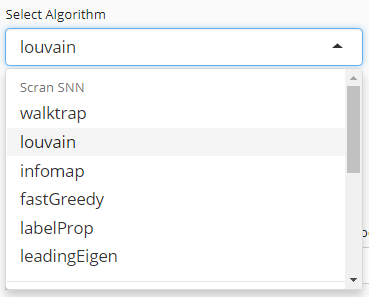
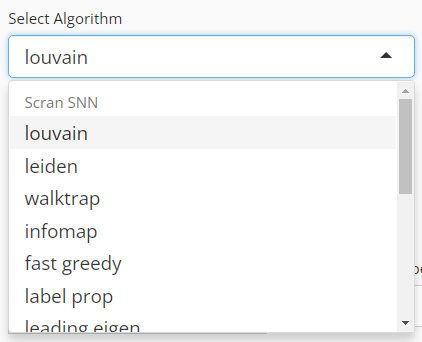
Update clustering documentation accordingly

diff --git a/docs/articles/clustering.html b/docs/articles/clustering.html
@@ -240,9 +240,9 @@
 <div class="section level2">
 <h2 id="introduction">Introduction<a class="anchor" aria-label="anchor" href="#introduction"></a>
 </h2>
-<p>SCTK allows users to do clustering on their data. The clustering methods that SCTK adopts are mainly graph based, such as an SNN graph, supported by Scran <span class="citation">[1]</span>, or a KNN graph, supported by Seurat <span class="citation">[2]</span>. Meanwhile, we also support traditional method such as K-Means <span class="citation">[3]</span>.</p>
-<p>SCTK allows different types data matrix as input. When using Scran’s SNN graph based clustering algorithms, users can specify either a expression matrix or a low-dimension representation as the input, while for Seurat’s KNN graph based algorithms and K-Means, users can only use the reduced dimensions.</p>
-<p>To view detailed instructions on how to use these methods, please select ‘Interactive Analysis’ for using clustering methods in shiny application or ‘Console Analysis’ for using these methods on R console from the tabs below: <br></p>
+<p>SCTK allows users to do clustering on their data. The clustering methods that SCTK adopts are mainly graph based algorithms, such as Louvain and Leiden, which partitions a Shared Nearest-Neighbor (SNN) graph. The graph can be constructed by Scran <span class="citation">[1]</span> or Seurat <span class="citation">[2]</span>, and the graph clustering is done by <code>igraph</code> or Seurat, respectively. Meanwhile, we also support traditional method such as K-Means <span class="citation">[3]</span>.</p>
+<p>SCTK allows different types data matrix as input. When using Scran’s SNN graph based clustering algorithms, users can specify either an expression matrix or a low-dimension representation as the input, while for Seurat’s methods and K-Means, users can only use the reduced dimensions.</p>
+<p>To view detailed instructions on how to use these methods, please select ‘Interactive Analysis’ for using clustering methods in Shiny application or ‘Console Analysis’ for using these methods in R console from the tabs below: <br></p>
 </div>
 <div class="section level2">
 <h2 id="workflow-guide">Workflow Guide<a class="anchor" aria-label="anchor" href="#workflow-guide"></a>
@@ -256,10 +256,10 @@
 <p><strong>Entry of The Panel</strong></p>
 <p>From anywhere of the UI, the panel for clustering can be accessed from the top navigation panel at the circled tab shown below.</p>
 <p><img src="ui_screenshots/clustering/clst_ui_entry.png" alt="Entry"><br></p>
-<p>The UI is includes two panels. The top one is for setting the parameters and run the clustering, while the bottom one is for visualizing the results.</p>
+<p>The UI includes two panels. The top one is for setting the parameters and run the clustering, while the bottom one is for visualizing the results.</p>
 <p><strong>Run Clustering</strong></p>
 <p><strong>1. Choose An Algorithm</strong></p>
-<p><img src="ui_screenshots/clustering/clst_ui_algo.png" style="border: 1px solid rgba(0,0,0,0.2)"></p>
+<p><img src="ui_screenshots/clustering/clst_ui_algo.png" alt="Algo"><br></p>
 <p>User will choose an algorithm to run the clustering at the very first step. The slide-down option list is constructed in a grouped style. Each group lists all the algorithm that a dependency (shown with grey text) supports. By selecting an algorithm that belongs to different groups, the parameter settings will change.</p>
 <p><strong>2. Parameter Settings</strong></p>
 <p>Method specific parameter settings can be viewed below:</p>
@@ -268,12 +268,23 @@ div.offset { background-color:inherit ; border-radius: 5px; margin-left: 15px;}
 </style>
 <div class="offset">
 <details><summary><b>Scran SNNs</b></summary><p><img src="ui_screenshots/clustering/clst_ui_scran.png" alt="scran"><br></p>
-<p>When the selected algorithm belongs to “Scran SNN” group, the parameter settings will look like the figure above. For the choices in the algorithm list, please refer to <code><a href="https://rdrr.io/pkg/igraph/man/cluster_walktrap.html" class="external-link">igraph::cluster_walktrap()</a></code>, <code><a href="https://rdrr.io/pkg/igraph/man/cluster_louvain.html" class="external-link">igraph::cluster_louvain()</a></code>, <code><a href="https://rdrr.io/pkg/igraph/man/cluster_infomap.html" class="external-link">igraph::cluster_infomap()</a></code>, <code><a href="https://rdrr.io/pkg/igraph/man/cluster_fast_greedy.html" class="external-link">igraph::cluster_fast_greedy()</a></code>, <code><a href="https://rdrr.io/pkg/igraph/man/cluster_label_prop.html" class="external-link">igraph::cluster_label_prop()</a></code>, and <code><a href="https://rdrr.io/pkg/igraph/man/cluster_leading_eigen.html" class="external-link">igraph::cluster_leading_eigen()</a></code>.</p>
+<p>When the selected algorithm belongs to “Scran SNN” group, the parameter settings will look like the figure above. For the choices in the algorithm list, please refer to <code><a href="https://rdrr.io/pkg/igraph/man/cluster_louvain.html" class="external-link">igraph::cluster_louvain()</a></code>, <code><a href="https://rdrr.io/pkg/igraph/man/cluster_leiden.html" class="external-link">igraph::cluster_leiden()</a></code>, <code><a href="https://rdrr.io/pkg/igraph/man/cluster_walktrap.html" class="external-link">igraph::cluster_walktrap()</a></code>, <code><a href="https://rdrr.io/pkg/igraph/man/cluster_infomap.html" class="external-link">igraph::cluster_infomap()</a></code>, <code><a href="https://rdrr.io/pkg/igraph/man/cluster_fast_greedy.html" class="external-link">igraph::cluster_fast_greedy()</a></code>, <code><a href="https://rdrr.io/pkg/igraph/man/cluster_label_prop.html" class="external-link">igraph::cluster_label_prop()</a></code>, and <code><a href="https://rdrr.io/pkg/igraph/man/cluster_leading_eigen.html" class="external-link">igraph::cluster_leading_eigen()</a></code>.</p>
 <ul>
 <li>Data matrix selection - selection input <strong>“Select Input Matrix”</strong>. Scran SNN method allows various types of data matrices. Either a full-sized or a subsetted expression matrix, technically called <code>assay</code> or <code>altExp</code>, respectively, or a reduced dimension, technically <code>reducedDim</code>, is allowed.</li>
-<li>Resolution setting - numeric input <strong>“K value”</strong>. <code>K</code> is an integer scalar specifying the number of nearest neighbors to consider during graph construction. Considering more neighbors results in larger groups. (See parameter <code>k</code> of <code><a href="https://rdrr.io/pkg/scran/man/buildSNNGraph.html" class="external-link">scran::buildSNNGraph()</a></code>)</li>
-<li>Algorithm detail setting - selection input <strong>“Edge Weight Type”</strong>. Users can specify the type of weighting scheme to use for shared neighbors. (See parameter <code>type</code> of <code><a href="https://rdrr.io/pkg/scran/man/buildSNNGraph.html" class="external-link">scran::buildSNNGraph()</a></code>)</li>
-<li>Component number setting (only used when the chosen data matrix is an <code>assay</code> or <code>altExp</code>) - numeric input <strong>“Number of Components”</strong>. When an <code>assay</code> or <code>altExp</code> is chosen, the algorithm will perform a PCA on the matrix and obtain the top principal components (PCs) for downstream use. Thus users will specify the number of PCs here.</li>
+<li>Resolution related parameters:
+<ul>
+<li>Numeric input <strong>“K value”</strong>. <code>K</code> is an integer scalar specifying the number of nearest neighbors to consider during graph construction. Considering more neighbors results in larger groups. (See parameter <code>k</code> of <code><a href="https://rdrr.io/pkg/scran/man/buildSNNGraph.html" class="external-link">scran::buildSNNGraph()</a></code>)</li>
+<li>Numeric input <strong>“Resolution”</strong>, only seen when choosing “leiden” algorithm. Higher resolutions lead to more smaller communities, while lower resolutions lead to fewer larger communities. (See parameter <code>resolution_parameter</code> of <code><a href="https://rdrr.io/pkg/igraph/man/cluster_leiden.html" class="external-link">igraph::cluster_leiden()</a></code>)</li>
+<li>Numeric input <strong>“Steps”</strong>, only seen when choosing “walktrap” algorithm. The length of the random walks to perform. Less steps lead to fewer larger communities, and take more time for computation. (See parameter <code>steps</code> of <code><a href="https://rdrr.io/pkg/igraph/man/cluster_walktrap.html" class="external-link">igraph::cluster_walktrap()</a></code>)</li>
+</ul>
+</li>
+<li>Algorithm detail setting
+<ul>
+<li>selection input <strong>“Edge Weight Type”</strong>. Users can specify the type of weighting scheme to use for shared neighbors. (See parameter <code>type</code> of <code><a href="https://rdrr.io/pkg/scran/man/buildSNNGraph.html" class="external-link">scran::buildSNNGraph()</a></code>)</li>
+<li>Selection input <strong>“Objective Function”</strong>, only seen when choosing “leiden” algorithm. The objective function, “CPM” <span class="citation">[4]</span> or “modularity” <span class="citation">[5]</span>, evaluates the partitioning of the graph, and the algorithm attempts to maximize the score.</li>
+</ul>
+</li>
+<li>Component number setting - numeric input <strong>“Number of Components”</strong>. If users specify a low-dimensional matrix as input, the method will be applied on the top components. When an <code>assay</code> or <code>altExp</code> is chosen, the algorithm will perform a PCA on the matrix and obtain the top PCs for downstream use. This number could be determined with the help of an Elbow plot in the <a href="cnsl_dimensionality_reduction.html">“Dimension Reduction”</a> section, and should be consistent with what is used for 2D embedding for better visualization.</li>
 </ul></details><details><summary><b>K-Means</b></summary><p><img src="ui_screenshots/clustering/clst_ui_kmeans.png" alt="kmeans"><br></p>
 <p>When the selected algorithm belongs to “K-Means” group, the parameter settings will look like the figure above.</p>
 <ul>
@@ -302,7 +313,7 @@ div.offset { background-color:inherit ; border-radius: 5px; margin-left: 15px;}
 </div>
 
 <div id="console" class="tabcontent">
-<p>The clustering methods mentioned in the Introduction can be easily applied to any preprocessed SCE object. Meanwhile, there are other types of clustering methods supported by SCTK, but usually dependent to a curated workflow, such as <a href="https://rdrr.io/bioc/celda/" class="external-link"><code>celda</code></a>. Here we present the usage of the three functions only.</p>
+<p>The clustering methods mentioned in the Introduction can be easily applied to any preprocessed SCE object. Meanwhile, there are other types of clustering methods supported by SCTK, but usually dependent to a curated workflow, such as the <a href="celda_curated_workflow.html">Celda Curated Workflow</a>. Here we present the usage of the three functions only.</p>
 <p><strong>Basic Parameters</strong></p>
 <p>For each of the three functions, the common things are:</p>
 <ul>
@@ -314,46 +325,54 @@ div.offset { background-color:inherit ; border-radius: 5px; margin-left: 15px;}
 </ul>
 <p>As for another essential parameter, the data matrix used for running the algorithm is a must. Here, users should notice that:</p>
 <ul>
+<li>For <code><a href="../reference/runScranSNN.html">runScranSNN()</a></code>, either a feature expression matrix or a dimension reduction is acceptable. Users need to use:
+<ul>
+<li>
+<code>useAssay</code> for a full-sized expression data (<code>assay</code>)</li>
+<li>
+<code>useAltExp</code> and <code>altExpAssay</code> for a subsetted expression data (<code>altExp</code>)</li>
+<li>
+<code>useReducedDim</code> for a dimension reduction. (<code>reducedDim</code>)</li>
+<li>
+<code>useAltExp</code> and <code>altExpRedDim</code> for a reduced dimension stored in the <code>altExp</code> object.</li>
+</ul>
+</li>
 <li>For <code><a href="../reference/runKMeans.html">runKMeans()</a></code>, only a dimension reduction is acceptable. Users need to use <code>useReducedDim</code> to pass the argument.</li>
-<li>For <code><a href="../reference/runScranSNN.html">runScranSNN()</a></code>, either a feature expression matrix or a dimension reduction is acceptable. Users need to use <code>useAssay</code> for a full-sized expression data (<code>assay</code>), <code>useAltExp</code> and <code>altExpAssay</code> for a subsetted expression data (<code>altExp</code>), or <code>useReducedDim</code> for a dimension reduction.</li>
 <li>For <code><a href="../reference/runSeuratFindClusters.html">runSeuratFindClusters()</a></code>, it is included within the Seurat Curated Workflow, yet usable as an independent function. However, it will be complicated to use this way. It is recommended to invoke the Seurat clustering functionality in the UI since it is automated there. We will still present the complicated workflow later.</li>
 </ul>
 <p>Other parameters are method specific, please refer to the function manual pages for the detail.</p>
-<details><summary><b>Example</b></summary><p>To demonstrate simple and clear examples, here we use the “PBMC-3k” dataset from “10X” which can be easily imported with SCTK functions.</p>
-<div class="sourceCode" id="cb1"><pre class="downlit sourceCode r">
-<code class="sourceCode R"><span class="kw"><a href="https://rdrr.io/r/base/library.html" class="external-link">library</a></span><span class="op">(</span><span class="va"><a href="https://www.camplab.net/sctk/" class="external-link">singleCellTK</a></span><span class="op">)</span>
-<span class="va">sce</span> <span class="op">&lt;-</span> <span class="fu"><a href="../reference/importExampleData.html">importExampleData</a></span><span class="op">(</span><span class="st">"pbmc3k"</span><span class="op">)</span></code></pre></div>
-<p>The preprocessing only includes necessary steps before getting cluster labels (i.e. QC and filtering are excluded).</p>
+<p><strong>Example</strong></p>
+<p>To demonstrate simple and clear examples, here we use the “PBMC-3k” dataset from “10X” which can be easily imported with SCTK functions. The preprocessing only includes necessary steps before getting cluster labels (i.e. QC and filtering are excluded).</p>
 <div class="offset">
-<details><summary><b>Preprocessing</b></summary><div class="sourceCode" id="cb2"><pre class="downlit sourceCode r">
-<code class="sourceCode R"><span class="va">sce</span> <span class="op">&lt;-</span> <span class="fu"><a href="../reference/scaterlogNormCounts.html">scaterlogNormCounts</a></span><span class="op">(</span><span class="va">sce</span>, <span class="st">"logcounts"</span><span class="op">)</span>
-<span class="co"># Go through the Seurat curated workflow to get basic scaled assay and dimension reduction</span>
+<details><summary><b>Preprocessing</b></summary><div class="sourceCode" id="cb1"><pre class="downlit sourceCode r">
+<code class="sourceCode R"><span class="kw"><a href="https://rdrr.io/r/base/library.html" class="external-link">library</a></span><span class="op">(</span><span class="va"><a href="https://www.camplab.net/sctk/" class="external-link">singleCellTK</a></span><span class="op">)</span>
+<span class="va">sce</span> <span class="op">&lt;-</span> <span class="fu"><a href="../reference/importExampleData.html">importExampleData</a></span><span class="op">(</span><span class="st">"pbmc3k"</span><span class="op">)</span>
+<span class="co"># Go through the Seurat curated workflow to get the dimension reduction</span>
 <span class="va">sce</span> <span class="op">&lt;-</span> <span class="fu"><a href="../reference/runSeuratNormalizeData.html">runSeuratNormalizeData</a></span><span class="op">(</span>inSCE <span class="op">=</span> <span class="va">sce</span>, useAssay <span class="op">=</span> <span class="st">"counts"</span><span class="op">)</span>
 <span class="va">sce</span> <span class="op">&lt;-</span> <span class="fu"><a href="../reference/runSeuratFindHVG.html">runSeuratFindHVG</a></span><span class="op">(</span>inSCE <span class="op">=</span> <span class="va">sce</span>, useAssay <span class="op">=</span> <span class="st">"seuratNormData"</span><span class="op">)</span>
 <span class="va">sce</span> <span class="op">&lt;-</span> <span class="fu"><a href="../reference/runSeuratScaleData.html">runSeuratScaleData</a></span><span class="op">(</span>inSCE <span class="op">=</span> <span class="va">sce</span>, useAssay <span class="op">=</span> <span class="st">"seuratNormData"</span><span class="op">)</span>
 <span class="va">sce</span> <span class="op">&lt;-</span> <span class="fu"><a href="../reference/runSeuratPCA.html">runSeuratPCA</a></span><span class="op">(</span>inSCE <span class="op">=</span> <span class="va">sce</span>, useAssay <span class="op">=</span> <span class="st">"seuratScaledData"</span><span class="op">)</span>
 <span class="co"># Optional visualization</span>
-<span class="va">sce</span> <span class="op">&lt;-</span> <span class="fu"><a href="../reference/runSeuratUMAP.html">runSeuratUMAP</a></span><span class="op">(</span><span class="va">pbmc3k</span><span class="op">)</span>
-<span class="fu"><a href="../reference/plotSCEDimReduceColData.html">plotSCEDimReduceColData</a></span><span class="op">(</span>inSCE <span class="op">=</span> <span class="va">sce</span>,  colorBy <span class="op">=</span> <span class="st">"Sample"</span>, reducedDimName <span class="op">=</span> <span class="st">"seuratUMAP"</span><span class="op">)</span></code></pre></div>
+<span class="va">sce</span> <span class="op">&lt;-</span> <span class="fu"><a href="../reference/runSeuratUMAP.html">runSeuratUMAP</a></span><span class="op">(</span><span class="va">sce</span><span class="op">)</span>
+<span class="fu"><a href="../reference/plotSCEDimReduceColData.html">plotSCEDimReduceColData</a></span><span class="op">(</span>inSCE <span class="op">=</span> <span class="va">sce</span>, colorBy <span class="op">=</span> <span class="st">"Sample"</span>, reducedDimName <span class="op">=</span> <span class="st">"seuratUMAP"</span><span class="op">)</span></code></pre></div>
 </details><details><summary><b>Example with Scran SNN</b></summary><details><summary><b>Method specific parameters</b></summary><ul>
 <li>
 <code>k</code>, the number of nearest neighbors used to construct the graph. Smaller value indicates higher resolution and larger number of clusters.</li>
 <li>
 <code>nComp</code>, the number of components to use when <code>useAssay</code> or <code>useAltExp</code> is specified. WON’T work with <code>useReducedDim</code>.</li>
-<li>For <code>weightType</code> and <code>algorithm</code>, users should choose from a given list of options, which can be found with <code><a href="../reference/runScranSNN.html">?runScranSNN</a></code>. For the introduction of those options, please refer to <code><a href="https://rdrr.io/pkg/scran/man/buildSNNGraph.html" class="external-link">scran::buildSNNGraph()</a></code> and <a href="https://rdrr.io/cran/igraph/" class="external-link"><code>igraph</code></a>.</li>
-</ul></details><div class="sourceCode" id="cb3"><pre class="downlit sourceCode r">
+<li>For <code>weightType</code> and <code>algorithm</code>, users should choose from a given list of options, which can be found with <code><a href="../reference/runScranSNN.html">?runScranSNN</a></code>. For the introduction of those options, please refer to <code><a href="https://rdrr.io/pkg/scran/man/buildSNNGraph.html" class="external-link">scran::buildSNNGraph()</a></code> and <a href="https://rdrr.io/cran/igraph/" class="external-link">igraph</a>.</li>
+<li>Different algorithms, supported by <a href="https://rdrr.io/cran/igraph/" class="external-link">igraph</a>, might allows different parameters, such as <code>objective_function</code> and <code>resolution_parameter</code> for Leiden <span class="citation">[6]</span>, <code>steps</code> for Walktrap <span class="citation">[7]</span>. Please also refer to function reference for detail.</li>
+</ul></details><div class="sourceCode" id="cb2"><pre class="downlit sourceCode r">
 <code class="sourceCode R"><span class="co"># Directly use an assay</span>
-<span class="va">sce</span> <span class="op">&lt;-</span> <span class="fu"><a href="../reference/runScranSNN.html">runScranSNN</a></span><span class="op">(</span>inSCE <span class="op">=</span> <span class="va">sce</span>, useAssay <span class="op">=</span> <span class="st">"logcounts"</span>, k <span class="op">=</span> <span class="fl">10</span>, clusterName <span class="op">=</span> <span class="st">"scranSNN_logcounts"</span><span class="op">)</span>
-<span class="fu"><a href="../reference/plotSCEDimReduceColData.html">plotSCEDimReduceColData</a></span><span class="op">(</span>inSCE <span class="op">=</span> <span class="va">sce</span>, colorBy <span class="op">=</span> <span class="st">"scranSNN_logcounts"</span>, conditionClass <span class="op">=</span> <span class="st">"factor"</span>, reducedDimName <span class="op">=</span> <span class="st">"seuratUMAP"</span><span class="op">)</span>
+<span class="va">sce</span> <span class="op">&lt;-</span> <span class="fu"><a href="../reference/runScranSNN.html">runScranSNN</a></span><span class="op">(</span>inSCE <span class="op">=</span> <span class="va">sce</span>, useAssay <span class="op">=</span> <span class="st">"seuratNormData"</span>, clusterName <span class="op">=</span> <span class="st">"scranSNN_logcounts"</span><span class="op">)</span>
+<span class="fu"><a href="../reference/plotSCEDimReduceColData.html">plotSCEDimReduceColData</a></span><span class="op">(</span>inSCE <span class="op">=</span> <span class="va">sce</span>, colorBy <span class="op">=</span> <span class="st">"scranSNN_logcounts"</span>, reducedDimName <span class="op">=</span> <span class="st">"seuratUMAP"</span><span class="op">)</span>
 <span class="co"># Directly use a dimension reduction</span>
-<span class="va">sce</span> <span class="op">&lt;-</span> <span class="fu"><a href="../reference/runScranSNN.html">runScranSNN</a></span><span class="op">(</span>inSCE <span class="op">=</span> <span class="va">sce</span>, useReducedDim <span class="op">=</span>  <span class="st">"seuratUMAP"</span>, k <span class="op">=</span> <span class="fl">25</span>, clusterName <span class="op">=</span> <span class="st">"scranSNN_seuratUMAP"</span><span class="op">)</span>
-<span class="fu"><a href="../reference/plotSCEDimReduceColData.html">plotSCEDimReduceColData</a></span><span class="op">(</span>inSCE <span class="op">=</span> <span class="va">sce</span>, colorBy <span class="op">=</span> <span class="st">"scranSNN_seuratUMAP"</span>, conditionClass <span class="op">=</span> <span class="st">"factor"</span>, reducedDimName <span class="op">=</span> <span class="st">"seuratUMAP"</span><span class="op">)</span>
+<span class="va">sce</span> <span class="op">&lt;-</span> <span class="fu"><a href="../reference/runScranSNN.html">runScranSNN</a></span><span class="op">(</span>inSCE <span class="op">=</span> <span class="va">sce</span>, useReducedDim <span class="op">=</span>  <span class="st">"seuratPCA"</span>, clusterName <span class="op">=</span> <span class="st">"scranSNN_seuratPCA"</span><span class="op">)</span>
+<span class="fu"><a href="../reference/plotSCEDimReduceColData.html">plotSCEDimReduceColData</a></span><span class="op">(</span>inSCE <span class="op">=</span> <span class="va">sce</span>, colorBy <span class="op">=</span> <span class="st">"scranSNN_seuratPCA"</span>, reducedDimName <span class="op">=</span> <span class="st">"seuratUMAP"</span><span class="op">)</span>
 <span class="co"># Use a subset of an assay</span>
-<span class="va">hvg</span> <span class="op">&lt;-</span> <span class="fu"><a href="../reference/getTopHVG.html">getTopHVG</a></span><span class="op">(</span><span class="va">sce</span>, <span class="st">"vst"</span>, n <span class="op">=</span> <span class="fl">500</span><span class="op">)</span>
-<span class="va">ae</span> <span class="op">&lt;-</span> <span class="fu"><a href="https://rdrr.io/pkg/SingleCellExperiment/man/SingleCellExperiment.html" class="external-link">SingleCellExperiment</a></span><span class="op">(</span>assays <span class="op">=</span> <span class="fu"><a href="https://rdrr.io/r/base/list.html" class="external-link">list</a></span><span class="op">(</span>logcounts <span class="op">=</span> <span class="fu"><a href="https://rdrr.io/pkg/SingleCellExperiment/man/assays.html" class="external-link">logcounts</a></span><span class="op">(</span><span class="va">sce</span><span class="op">[</span><span class="va">hvg</span>,<span class="op">]</span><span class="op">)</span><span class="op">)</span><span class="op">)</span>
-<span class="fu"><a href="https://rdrr.io/pkg/SingleCellExperiment/man/altExps.html" class="external-link">altExp</a></span><span class="op">(</span><span class="va">sce</span>, <span class="st">"subset"</span><span class="op">)</span> <span class="op">&lt;-</span> <span class="va">ae</span>
-<span class="va">sce</span> <span class="op">&lt;-</span> <span class="fu"><a href="../reference/runScranSNN.html">runScranSNN</a></span><span class="op">(</span>inSCE <span class="op">=</span> <span class="va">sce</span>, useAltExp <span class="op">=</span> <span class="st">"subset"</span>, altExpAssay <span class="op">=</span> <span class="st">"logcounts"</span>, k <span class="op">=</span> <span class="fl">8</span>, clusterName <span class="op">=</span> <span class="st">"scranSNN_altExp"</span><span class="op">)</span>
-<span class="fu"><a href="../reference/plotSCEDimReduceColData.html">plotSCEDimReduceColData</a></span><span class="op">(</span>inSCE <span class="op">=</span> <span class="va">sce</span>, colorBy <span class="op">=</span> <span class="st">"scranSNN_altExp"</span>, conditionClass <span class="op">=</span> <span class="st">"factor"</span>, reducedDimName <span class="op">=</span> <span class="st">"seuratUMAP"</span><span class="op">)</span></code></pre></div>
+<span class="va">sce</span> <span class="op">&lt;-</span> <span class="fu"><a href="../reference/getTopHVG.html">getTopHVG</a></span><span class="op">(</span><span class="va">sce</span>, <span class="st">"vst"</span>, n <span class="op">=</span> <span class="fl">1000</span>, altExp <span class="op">=</span> <span class="st">"hvg"</span><span class="op">)</span>
+<span class="va">sce</span> <span class="op">&lt;-</span> <span class="fu"><a href="../reference/runScranSNN.html">runScranSNN</a></span><span class="op">(</span>inSCE <span class="op">=</span> <span class="va">sce</span>, useAltExp <span class="op">=</span> <span class="st">"hvg"</span>, altExpAssay <span class="op">=</span> <span class="st">"seuratNormData"</span>,  clusterName <span class="op">=</span> <span class="st">"scranSNN_altExp"</span><span class="op">)</span>
+<span class="fu"><a href="../reference/plotSCEDimReduceColData.html">plotSCEDimReduceColData</a></span><span class="op">(</span>inSCE <span class="op">=</span> <span class="va">sce</span>, colorBy <span class="op">=</span> <span class="st">"scranSNN_altExp"</span>, reducedDimName <span class="op">=</span> <span class="st">"seuratUMAP"</span><span class="op">)</span></code></pre></div>
 </details><details><summary><b>Example with K-Means</b></summary><details><summary><b>Method specific parameters</b></summary><ul>
 <li>
 <code>nCenters</code>, the number of final clusters. This is required.</li>
@@ -364,32 +383,28 @@ div.offset { background-color:inherit ; border-radius: 5px; margin-left: 15px;}
 <li>
 <code>seed</code>, The seed for the random number generator.</li>
 <li>For <code>algorithm</code>, users should choose from a given list of options, which can be found with <code><a href="../reference/runKMeans.html">?runKMeans</a></code>. For the introduction of those options, please refer to <code><a href="https://rdrr.io/r/stats/kmeans.html" class="external-link">?stats::kmeans</a></code>.</li>
-</ul></details><div class="sourceCode" id="cb4"><pre class="downlit sourceCode r">
-<code class="sourceCode R"><span class="va">sce</span> <span class="op">&lt;-</span> <span class="fu"><a href="../reference/runKMeans.html">runKMeans</a></span><span class="op">(</span>inSCE <span class="op">=</span> <span class="va">sce</span>, useReducedDim <span class="op">=</span> <span class="st">"seuratUMAP"</span>, nCenters <span class="op">=</span> <span class="fl">13</span>, clusterName <span class="op">=</span> <span class="st">"kmeans_cluster"</span><span class="op">)</span>
-<span class="fu"><a href="../reference/plotSCEDimReduceColData.html">plotSCEDimReduceColData</a></span><span class="op">(</span>inSCE <span class="op">=</span> <span class="va">sce</span>, colorBy <span class="op">=</span> <span class="st">"kmeans_cluster"</span>, conditionClass <span class="op">=</span> <span class="st">"factor"</span>, reducedDimName <span class="op">=</span> <span class="st">"seuratUMAP"</span><span class="op">)</span></code></pre></div>
+</ul></details><div class="sourceCode" id="cb3"><pre class="downlit sourceCode r">
+<code class="sourceCode R"><span class="va">sce</span> <span class="op">&lt;-</span> <span class="fu"><a href="../reference/runKMeans.html">runKMeans</a></span><span class="op">(</span>inSCE <span class="op">=</span> <span class="va">sce</span>, useReducedDim <span class="op">=</span> <span class="st">"seuratPCA"</span>, nCenters <span class="op">=</span> <span class="fl">10</span>, clusterName <span class="op">=</span> <span class="st">"kmeans_cluster"</span><span class="op">)</span>
+<span class="fu"><a href="../reference/plotSCEDimReduceColData.html">plotSCEDimReduceColData</a></span><span class="op">(</span>inSCE <span class="op">=</span> <span class="va">sce</span>, colorBy <span class="op">=</span> <span class="st">"kmeans_cluster"</span>, reducedDimName <span class="op">=</span> <span class="st">"seuratUMAP"</span><span class="op">)</span></code></pre></div>
 </details><details><summary><b>Example with Seurat</b></summary><p>Here we will only present the examples of using <code><a href="../reference/runSeuratFindClusters.html">runSeuratFindClusters()</a></code>.</p>
-<div class="sourceCode" id="cb5"><pre class="downlit sourceCode r">
-<code class="sourceCode R"><span class="va">sce</span> <span class="op">&lt;-</span> <span class="fu"><a href="../reference/runSeuratFindClusters.html">runSeuratFindClusters</a></span><span class="op">(</span>inSCE <span class="op">=</span> <span class="va">sce</span>, useAssay <span class="op">=</span> <span class="st">"seuratScaledData"</span><span class="op">)</span>
-<span class="fu"><a href="../reference/plotSCEDimReduceColData.html">plotSCEDimReduceColData</a></span><span class="op">(</span>inSCE <span class="op">=</span> <span class="va">sce</span>, colorBy <span class="op">=</span> <span class="st">"Seurat_louvain_Resolution0.8"</span>, conditionClass <span class="op">=</span> <span class="st">"factor"</span>, reducedDimName <span class="op">=</span> <span class="st">"seuratUMAP"</span><span class="op">)</span></code></pre></div>
+<div class="sourceCode" id="cb4"><pre class="downlit sourceCode r">
+<code class="sourceCode R"><span class="va">sce</span> <span class="op">&lt;-</span> <span class="fu"><a href="../reference/runSeuratFindClusters.html">runSeuratFindClusters</a></span><span class="op">(</span>inSCE <span class="op">=</span> <span class="va">sce</span>, useReduction <span class="op">=</span> <span class="st">"pca"</span><span class="op">)</span>
+<span class="fu"><a href="../reference/plotSCEDimReduceColData.html">plotSCEDimReduceColData</a></span><span class="op">(</span>inSCE <span class="op">=</span> <span class="va">sce</span>, colorBy <span class="op">=</span> <span class="st">"Seurat_louvain_Resolution0.8"</span>, reducedDimName <span class="op">=</span> <span class="st">"seuratUMAP"</span><span class="op">)</span></code></pre></div>
 <p>When users preprocessed the dataset with other approaches. The clustering with Seurat function can be complicated, since some sorts of Seurat specific metadata is always needed.</p>
-<div class="sourceCode" id="cb6"><pre class="downlit sourceCode r">
+<div class="sourceCode" id="cb5"><pre class="downlit sourceCode r">
 <code class="sourceCode R"><span class="co"># Let's get another totally independent dimension reduction for demonstration. </span>
-<span class="va">sce</span> <span class="op">&lt;-</span> <span class="fu"><a href="../reference/scaterPCA.html">scaterPCA</a></span><span class="op">(</span><span class="va">sce</span>, reducedDimName <span class="op">=</span> <span class="st">"PCA"</span><span class="op">)</span>
+<span class="va">sce</span> <span class="op">&lt;-</span> <span class="fu"><a href="../reference/scaterPCA.html">scaterPCA</a></span><span class="op">(</span><span class="va">sce</span>, useAssay <span class="op">=</span> <span class="st">"seuratNormData"</span>, scale <span class="op">=</span> <span class="cn">TRUE</span>, reducedDimName <span class="op">=</span> <span class="st">"PCA"</span><span class="op">)</span>
+<span class="co"># Prepare what seurat function needs</span>
 <span class="va">pca</span> <span class="op">&lt;-</span> <span class="fu"><a href="https://rdrr.io/pkg/SingleCellExperiment/man/reducedDims.html" class="external-link">reducedDim</a></span><span class="op">(</span><span class="va">sce</span>, <span class="st">"PCA"</span><span class="op">)</span>
-<span class="fu"><a href="https://rdrr.io/pkg/BiocGenerics/man/row_colnames.html" class="external-link">rownames</a></span><span class="op">(</span><span class="va">pca</span><span class="op">)</span> <span class="op">&lt;-</span> <span class="fu"><a href="https://rdrr.io/r/base/grep.html" class="external-link">gsub</a></span><span class="op">(</span><span class="st">"_"</span>, <span class="st">"-"</span>, <span class="fu"><a href="https://rdrr.io/pkg/BiocGenerics/man/row_colnames.html" class="external-link">rownames</a></span><span class="op">(</span><span class="va">pca</span><span class="op">)</span><span class="op">)</span>
-<span class="kw">if</span> <span class="op">(</span><span class="st">"percentVar"</span> <span class="op"><a href="https://rdrr.io/pkg/BiocGenerics/man/match.html" class="external-link">%in%</a></span> <span class="fu"><a href="https://rdrr.io/r/base/names.html" class="external-link">names</a></span><span class="op">(</span><span class="fu"><a href="https://rdrr.io/r/base/attributes.html" class="external-link">attributes</a></span><span class="op">(</span><span class="va">pca</span><span class="op">)</span><span class="op">)</span><span class="op">)</span> <span class="op">{</span>
-    <span class="va">stdev</span> <span class="op">&lt;-</span> <span class="fu"><a href="https://rdrr.io/r/base/numeric.html" class="external-link">as.numeric</a></span><span class="op">(</span><span class="fu"><a href="https://rdrr.io/r/base/attr.html" class="external-link">attr</a></span><span class="op">(</span><span class="va">pca</span>, <span class="st">"percentVar"</span><span class="op">)</span><span class="op">)</span>
-    <span class="va">new_pca</span> <span class="op">&lt;-</span> <span class="fu">Seurat</span><span class="fu">::</span><span class="fu"><a href="https://mojaveazure.github.io/seurat-object/reference/CreateDimReducObject.html" class="external-link">CreateDimReducObject</a></span><span class="op">(</span>embeddings <span class="op">=</span> <span class="va">sce</span>, assay <span class="op">=</span> <span class="st">"RNA"</span>, stdev <span class="op">=</span> <span class="va">stdev</span>, key <span class="op">=</span> <span class="st">"PC_"</span><span class="op">)</span>
-<span class="op">}</span> <span class="kw">else</span> <span class="op">{</span>
-    <span class="va">new_pca</span> <span class="op">&lt;-</span> <span class="fu">Seurat</span><span class="fu">::</span><span class="fu"><a href="https://mojaveazure.github.io/seurat-object/reference/CreateDimReducObject.html" class="external-link">CreateDimReducObject</a></span><span class="op">(</span>embeddings <span class="op">=</span> <span class="va">sce</span>, assay <span class="op">=</span> <span class="st">"RNA"</span>, key <span class="op">=</span> <span class="st">"PC_"</span><span class="op">)</span>
-<span class="op">}</span>
+<span class="fu"><a href="https://rdrr.io/r/base/colnames.html" class="external-link">rownames</a></span><span class="op">(</span><span class="va">pca</span><span class="op">)</span> <span class="op">&lt;-</span> <span class="fu"><a href="https://rdrr.io/r/base/grep.html" class="external-link">gsub</a></span><span class="op">(</span><span class="st">"_"</span>, <span class="st">"-"</span>, <span class="fu"><a href="https://rdrr.io/r/base/colnames.html" class="external-link">rownames</a></span><span class="op">(</span><span class="va">pca</span><span class="op">)</span><span class="op">)</span>
+<span class="va">stdev</span> <span class="op">&lt;-</span> <span class="fu"><a href="https://rdrr.io/r/base/numeric.html" class="external-link">as.numeric</a></span><span class="op">(</span><span class="fu"><a href="https://rdrr.io/r/base/attr.html" class="external-link">attr</a></span><span class="op">(</span><span class="va">pca</span>, <span class="st">"percentVar"</span><span class="op">)</span><span class="op">)</span>
+<span class="va">new_pca</span> <span class="op">&lt;-</span> <span class="fu">Seurat</span><span class="fu">::</span><span class="fu"><a href="https://mojaveazure.github.io/seurat-object/reference/CreateDimReducObject.html" class="external-link">CreateDimReducObject</a></span><span class="op">(</span>embeddings <span class="op">=</span> <span class="va">pca</span>, assay <span class="op">=</span> <span class="st">"RNA"</span>, stdev <span class="op">=</span> <span class="va">stdev</span>, key <span class="op">=</span> <span class="st">"PC_"</span><span class="op">)</span>
 <span class="co"># Then we can take the Seurat Curated Workflow independent dimension </span>
 <span class="co"># reduction as an input. </span>
-<span class="va">pbmc3k</span> <span class="op">&lt;-</span> <span class="fu"><a href="../reference/runSeuratFindClusters.html">runSeuratFindClusters</a></span><span class="op">(</span>inSCE <span class="op">=</span> <span class="va">sce</span>, useAssay <span class="op">=</span> <span class="fu"><a href="https://rdrr.io/pkg/SummarizedExperiment/man/SummarizedExperiment-class.html" class="external-link">assayNames</a></span><span class="op">(</span><span class="va">sce</span><span class="op">)</span><span class="op">[</span><span class="fl">1</span><span class="op">]</span>, externalReduction <span class="op">=</span> <span class="va">new_pca</span>, resolution <span class="op">=</span> <span class="fl">0.8</span><span class="op">)</span>
-<span class="fu"><a href="../reference/plotSCEDimReduceColData.html">plotSCEDimReduceColData</a></span><span class="op">(</span>inSCE <span class="op">=</span> <span class="va">sce</span>, colorBy <span class="op">=</span> <span class="st">"Seurat_louvain_Resolution0.8"</span>, conditionClass <span class="op">=</span> <span class="st">"factor"</span>, reducedDimName <span class="op">=</span> <span class="st">"seuratUMAP"</span><span class="op">)</span></code></pre></div>
+<span class="va">pbmc3k</span> <span class="op">&lt;-</span> <span class="fu"><a href="../reference/runSeuratFindClusters.html">runSeuratFindClusters</a></span><span class="op">(</span><span class="va">sce</span>, externalReduction <span class="op">=</span> <span class="va">new_pca</span><span class="op">)</span>
+<span class="fu"><a href="../reference/plotSCEDimReduceColData.html">plotSCEDimReduceColData</a></span><span class="op">(</span>inSCE <span class="op">=</span> <span class="va">sce</span>, colorBy <span class="op">=</span> <span class="st">"Seurat_louvain_Resolution0.8"</span>, reducedDimName <span class="op">=</span> <span class="st">"seuratUMAP"</span><span class="op">)</span></code></pre></div>
 </details>
 </div>
-</details>
 </div>
 <script>
 document.getElementById("ia-button").click();
@@ -410,6 +425,22 @@ document.getElementById("ia-button").click();
 <div id="ref-Forgy65" class="csl-entry">
 <div class="csl-left-margin">[3] </div>
 <div class="csl-right-inline">E. Forgy, <span>“<span class="nocase">Cluster analysis of multivariate data: efficiency versus interpretability of classifications</span>,”</span> <em>Biometrics</em>, vol. 21, pp. 768–780, 1965.</div>
+</div>
+<div id="ref-Ronhovde2010" class="csl-entry">
+<div class="csl-left-margin">[4] </div>
+<div class="csl-right-inline">P. Ronhovde and Z. Nussinov, <span>“Local resolution-limit-free potts model for community detection,”</span> <em>Phys. Rev. E</em>, vol. 81, no. 46114, 4, 2010, doi: <a href="https://doi.org/10.1103/PhysRevE.81.046114" class="external-link">10.1103/PhysRevE.81.046114</a>.</div>
+</div>
+<div id="ref-Newman2004" class="csl-entry">
+<div class="csl-left-margin">[5] </div>
+<div class="csl-right-inline">M. E. J. Newman and M. Girvan, <span>“Finding and evaluating community structure in networks,”</span> <em>Phys. Rev. E</em>, vol. 69, no. 26113, 2, 2004, doi: <a href="https://doi.org/10.1103/PhysRevE.69.026113" class="external-link">10.1103/PhysRevE.69.026113</a>.</div>
+</div>
+<div id="ref-Traag2019" class="csl-entry">
+<div class="csl-left-margin">[6] </div>
+<div class="csl-right-inline">V. A. Traag, L. Waltman, and N. J. van Eck, <span>“From louvain to leiden: Guaranteeing well-connected communities,”</span> <em>Scientific Reports</em>, vol. 9, no. 5233, 2019, doi: <a href="https://doi.org/10.1038/s41598-019-41695-z" class="external-link">10.1038/s41598-019-41695-z</a>.</div>
+</div>
+<div id="ref-Pons2005" class="csl-entry">
+<div class="csl-left-margin">[7] </div>
+<div class="csl-right-inline">P. Pons and M. Latapy, <span>“Computing communities in large networks using random walks,”</span> in <em>Computer and information sciences - ISCIS 2005</em>, 2005, pp. 284–293. doi: <a href="https://doi.org/10.1007/11569596_31" class="external-link">10.1007/11569596_31</a>.</div>
 </div>
 </div>
 </div>
